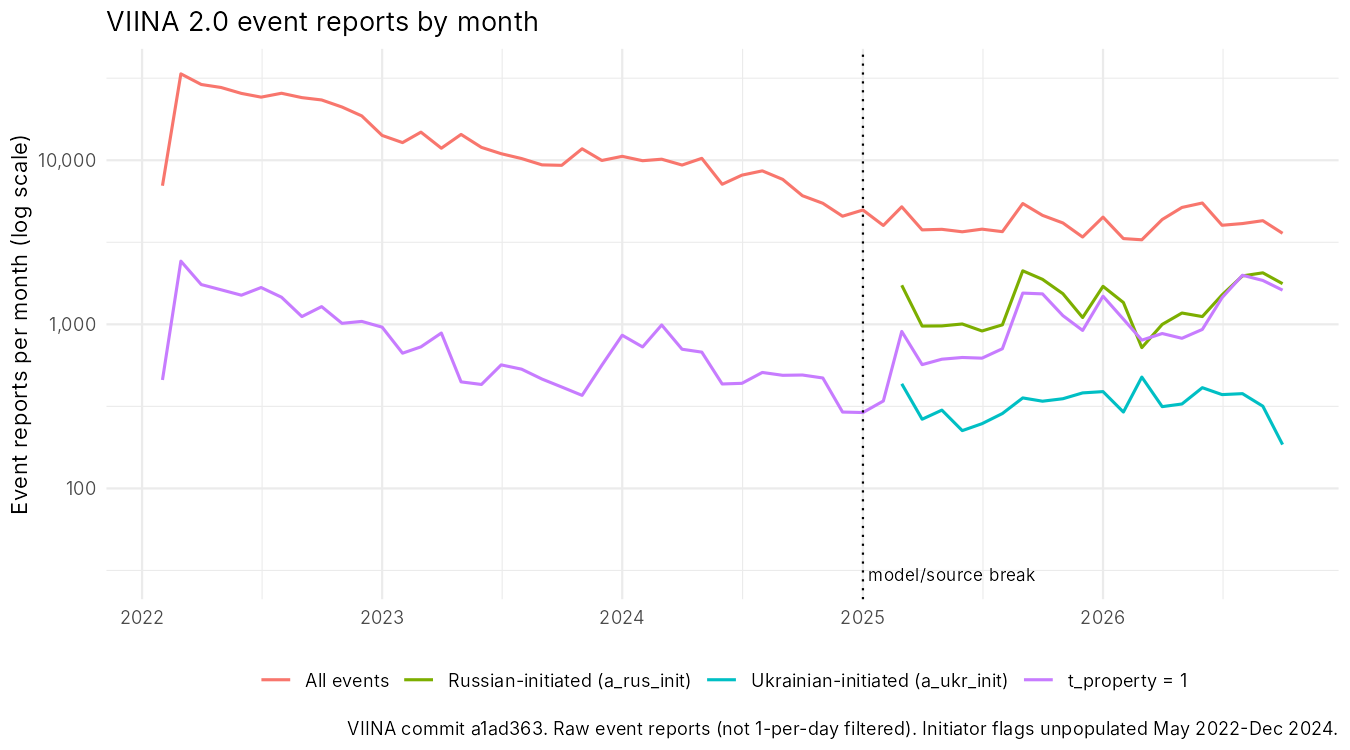
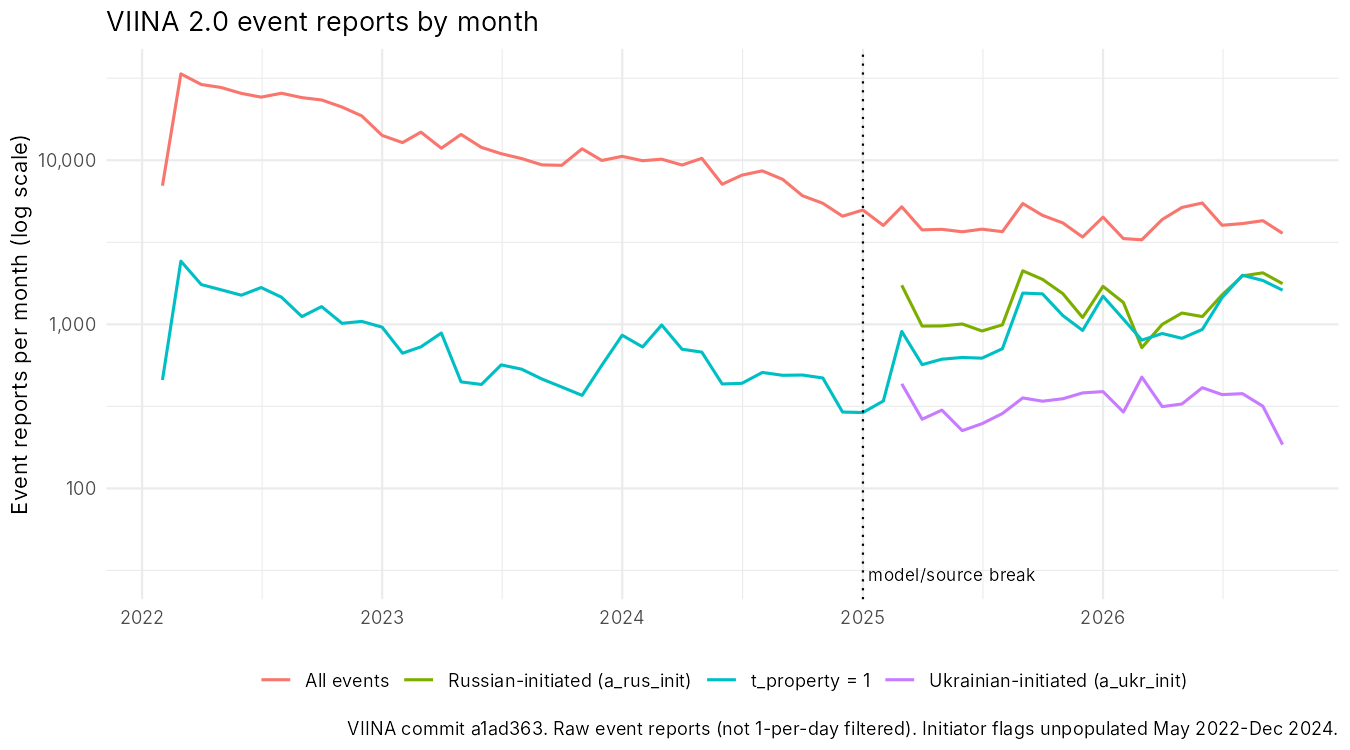
Pilot scoring against sourced March 2024 reference; Phase 1 report; notes
Claude-Session: https://claude.ai/code/session_01QxDEDCRnVMe3Xrrce3ECjw

diff --git a/output/phase1_report.md b/output/phase1_report.md
@@ -1,0 +1,96 @@
+# Phase 1 report: Russia–Ukraine action-level damage dataset
+
+2026-11-03 · VIINA commit `a1ad363` (27 Oct 2026) · Details, decisions and source quirks are in `NOTES.md`.
+
+## 1. Event counts (VIINA, 24 Feb 2022 – 31 Oct 2026)
+
+- **Total:** 591,923 raw event reports. Of these, 52,174 have `t_property` = 1.
+- **By year:** 2022: 259,851 · 2023: 141,593 · 2024: 97,885 · 2025: 50,490 · 2026: 42,104.
+- **March 2024 (pilot month):** 10,148 reports, 991 with `t_property` = 1.
+- **Initiator flags (`a_rus_init`, `a_ukr_init`) are unpopulated from May 2022 to Dec 2024.** In 2025–26 they run at about 1,000–2,000 RU-initiated and 200–480 UA-initiated reports a month. Attacker attribution for 2022–24 has to come from our own rule.
+- **Structural break at 2025** (sources and classifier version change). Volume falls about 5×, while the `t_property` share rises from 6% to 31%. Counts are not comparable across the break.
+- Files: `output/monthly_counts.csv` and `output/monthly_counts.png`.
+
+## 2. Coverage of Russian territory
+
+- **Geocodes inside Russia.** 4.4% of events have coordinates inside Russia's internationally recognised borders (26,063 events). But 90% of these are mis-geocodes: their address string reads "Ukraine, …", typically placed at the Moscow centroid. The clean share is **0.43%**, ranging from 0.2% in 2022 to 1.0% in 2026.
+- **IntelliNews refinery strikes.** Test set: the 198 dated strikes at plants with known coordinates.
+  - **1.5%** of them have any VIINA event within 25 km on the day ±1. All three of those are 2026 Samara strikes.
+  - **23%** have a VIINA headline naming oil infrastructure and the plant's town within ±1 day: 4% in 2024, 21% in 2025, 31% in 2026. VIINA carries some of the news but geocodes it to Ukrainian namesakes.
+- **Conclusion: UA→RU needs a separate source.** IntelliNews is the base; Baker (if you approve requesting access) and Deep Strike come next. VIINA is usable only as a weak text supplement.
+- Files: `output/russia_share_by_year.csv` and `output/refinery_strike_coverage*.csv`.
+
+## 3. Keyword dictionary (`dict/econ_targets.csv`, 38 terms)
+
+Headline hits, 2022 to Oct 2026. The specific-terms-only count is in brackets.
+
+| Class | Hits |
+|---|---|
+| gen | 8,280 |
+| transmission | 6,490 |
+| refining | 504 |
+| storage_export | 4,527 |
+| industrial | 6,586 |
+| **Any class** | **24,992 (12,055)** |
+
+Monthly figures by class are in `output/dict_hits_by_class_month.csv`, and term-level counts in `output/dict_hits_by_term.csv`.
+
+Problems with the terms:
+- **АЕС/АЭС** (4,187 hits) is dominated by news about the occupied Zaporizhzhia nuclear plant.
+- **Outage words** ("без світла", "знеструмлення") account for 4,163 hits. They are a useful grid signal but are not strikes in themselves.
+- **"шахт" (mine)** was tightened from 4,751 hits to 365, because it was matching the place names Shakhtarsk and Shakhtarske.
+- **"critical infrastructure" is missing.** Officials use the phrase as a euphemism for energy hits. Adding it is the main fix for recall (§5).
+
+## 4. Facility registry seed (`registry/facilities.csv`)
+
+- **72 facilities: 36 RU and 36 UA.**
+  - RU: refineries plus 3 condensate and gas plants. Capacity is in t/yr, from IntelliNews.
+  - UA: thermal, CHP, hydro and pumped-storage plants. Capacity is in MW, from Wikidata.
+- **Sources:** every row has a source URL. Coordinates come from Wikipedia or Wikidata.
+- **Gaps:** 15 rows have no coordinates and 16 have no capacity. These are left NA and logged in `output/gap_log.csv`.
+
+## 5. Pilot: March 2024
+
+**Pipeline counts:** 362 dictionary-hit reports → 251 classified economic → **142 strikes** after de-duplication (same target and attacker within 24 h). Of these, 134 are RU and 8 are UA, and 23 are matched to a registry facility.
+
+**Recall reference.** This is a provisional reference I compiled by hand, with a source URL on every row (`data/raw/manual_reference/`): Ukrenergo/Ministry posts plus DiXi weekly reviews. It stands in for energy-map.info, which needs an account. Ukrenergo explicitly called two attacks "massive": 22 and 29 March.
+
+| Metric | Value | n |
+|---|---|---|
+| Recall: massive attacks with at least one RU energy strike on day 0–1 | **100%** | 2 |
+| Recall: named registry plant matched on day 0–1, all | 57% | 7 |
+| Recall: named registry plant matched, confirmed damage only | 40% | 5 |
+| Recall: attack-date × oblast with confirmed damage | 55% | 11 |
+| Precision, strict (ambiguous = no) | **82%** | 50 |
+| Precision, lenient | 88% | 50 |
+| Attacker correct, among true strikes | 90% | 41 |
+| Facility match correct, among sampled matches | 22% | 9 |
+
+**Why recall misses:**
+1. **"Critical infrastructure" headlines are not in the dictionary.** Examples: "в Івано-Франківській області пошкоджено об'єкт критичної інфраструктури", and "критичну інфраструктуру на Вінниччині і Львівщині". This accounts for most of the oblast misses.
+2. **Late naming.** Zmiiv TPP is only named on 30 Mar, and Burshtyn only in a 27 Mar repair report. A day 0–1 window misses both.
+3. **Ladyzhyn TPP has no coordinates** in the registry seed.
+
+**Precision errors:**
+- ZNPP or diplomatic news, arrests and policy items (6 false).
+- Daily-digest and follow-up reports.
+- 4 of 50 sampled strikes are duplicates that the de-duplication missed, because the same headline was geocoded to a different oblast.
+
+**Attacker errors:** all 4 are Ukrainian strikes on occupied territory (Horlivka, Crimea, occupied Zaporizhzhia) that the rule assigned to RU.
+
+**Facility matching is weak.** Spatial matches attach ZNPP and substation news to DniproHES or Prydniprovska TPP.
+
+**Caveat:** the precision labels are mine (an LLM reading headlines only). They need a human check before the precision figure is quoted.
+
+## 6. Open decisions
+
+1. **Action-merging rule.** Proposed: an action ends at an attacker switch or after a gap of g = 12 h by the same side.
+2. **Economic damage measure.** Proposed: share of national capacity × severity, with capacity × days offline as a robustness check.
+3. **Kinetic damage.** Reported deaths only, or reported plus modelled expected deaths?
+4. **UA→RU source strategy.** May I request the Baker dataset? ACLED needs the same decision.
+5. **Attacker rule for 2022–24.** Options: a control map plus target location, and/or a classifier trained on VIINA's 2025+ labels.
+6. **Occupied-territory strikes:** a category of their own?
+7. **Generic "energy object" strikes with no named facility:** keep them with an oblast-level proxy, or hold them back?
+8. **ZNPP handling.**
+9. **Manual downloads of energy-map.info and Kaggle** for the real recall test.
+10. **A human pass on the precision labels.**

diff --git a/NOTES.md b/NOTES.md
@@ -35,6 +35,8 @@ Rscript R/run_all.R            # runs 01..07 from the repo root
 
 ## Decisions taken (Phase 1)
 
+0. **Language** (PI, 2026-11-03). Any language is fine; use whatever is best for the task. The existing pipeline stays in R. Python is preferred for headline number extraction (casualties) and any classifier.
+
 Each decision is provisional unless it is marked as fixed by the brief.
 
 1. **VIINA version.** VIINA is pinned to commit `a1ad3633…` (main, 2026-10-27). I use the raw `event_info` + `event_labels` files, not the `event_1pd` one-per-day files: our own de-duplication rule has to run on raw reports.
@@ -56,7 +58,16 @@ Each decision is provisional unless it is marked as fixed by the brief.
     - Target = `facility_id` if matched, else class × oblast × VIINA populated place (`geonameid`).
     - Windows are anchored at the first report of each strike, so follow-up reports cannot chain a strike past 24 h.
     - The timestamp is VIINA `date` + `time`, read as Kyiv time.
-11. **Recall reference.** The energy-map.info file needs an account (see Blocked sources). In its place I compiled a provisional reference list of March 2024 attacks on energy by hand from public reporting; every row has a source URL (`data/raw/manual_reference/2026-11-03/`). Recall against energy-map itself is still to do.
+11. **Recall reference.** The energy-map.info file needs an account (see Blocked sources). In its place I compiled a provisional reference list of March 2024 attacks on energy by hand, with a source URL on every row (`data/raw/manual_reference/2026-11-03/`). It draws on Ukrenergo, DTEK and Ukrhydroenergo Telegram posts, Ministry of Energy bulletins and DiXi weekly reviews #40–44. `massive_flag = yes` marks only the attacks Ukrenergo or the Ministry called "massive": 22 and 29 March. Plants that were named as targets but whose damage was not confirmed (Kaniv, Dniester HPPs) are marked `uncertain`. Recall against energy-map itself is still to do.
+    - Recall results (March 2024):
+      - attack level: 2/2;
+      - named registry plants: 4/7, or 2/5 counting confirmed damage only;
+      - attack-date × oblast: 6/11.
+    - Misses come from three sources:
+      - "критична інфраструктура" (critical infrastructure) headlines are not in the dictionary;
+      - plants named only days later: Zmiiv on 30 Mar, Burshtyn in a repair report on 27 Mar;
+      - Ladyzhyn TPP has no coordinates.
+    - **Next fix:** add the critical-infrastructure term and widen the recall window to day 0–3 for named plants. I have held this back so that the labelled precision sample stays valid.
 12. **Precision labels.** I (Claude) labelled the 50-strike sample from the headline text only. These labels are not human-verified, and the file says so (`data/raw/manual_labels/2026-11-03/pilot_precision_labels.csv`).
 
 ---
@@ -84,6 +95,13 @@ Each decision is provisional unless it is marked as fixed by the brief.
 | OpenStreetMap Overpass API | The connection is reset by the egress proxy (both mirrors). | I used Wikipedia/Wikidata instead. Overpass would give better facility polygons, if network policy allows it. |
 
 ---
+
+## Proposal sent to the PI (2026-11-03): action mapping and damage. Not implemented.
+
+- **Hierarchy:** report → strike (built: same target and attacker within 24 h) → action → episode (lull of 48 h or more).
+- **Action:** a run of strikes by one side. It ends when the other side strikes, or after a gap of **g = 12 h** by the same side. The 12 h covers news-publication lag on overnight waves. Overlapping RU/UA actions are allowed and ordered by start time; `gap_prev` may then be negative. Alternative: group strikes by RU "attack night", using the Ukrainian Air Force daily tallies as the backbone.
+- **`dmg_kin`:** death counts extracted from headlines, taking the maximum across a strike's reports. Where no count is reported, a modelled expected value is filled in (weapon × target × location) and flagged as modelled. The action value is the sum over its strikes. Cross-checks: OHCHR monthly totals, and ACLED if access is approved.
+- **`dmg_econ`:** capacity as a share of national capacity × a severity weight. IntelliNews's 0–4 damage scale maps to 0 / 0.1 / 0.3 / 0.6 / 1; RU→UA severity would be coded from the reports. Robustness check: capacity × days offline. Unnamed grid strikes stay NA, or are measured by customers cut off, or by an oblast proxy (PI to decide).
 
 ## Open questions / decisions for the PI
 

diff --git a/data/raw/manual_reference/2026-11-03/README.md b/data/raw/manual_reference/2026-11-03/README.md
@@ -1,0 +1,3 @@
+# Provisional March 2024 reference (hand-compiled)
+
+Compiled 2026-11-03 from Ukrenergo/DTEK/Ukrhydroenergo Telegram posts, Ministry of Energy bulletins (kmu.gov.ua), DiXi Group weekly reviews #40-44 and news reports; one source URL per row. "massive_flag = yes" only where Ukrenergo or the Ministry called the attack massive (22 and 29 March). The non-massive list is abridged (subset of 2024-03-24/25/31 rows). Stand-in for the energy-map.info file, which needs an account. facility_id is our registry mapping; certainty = uncertain where damage was not confirmed.
